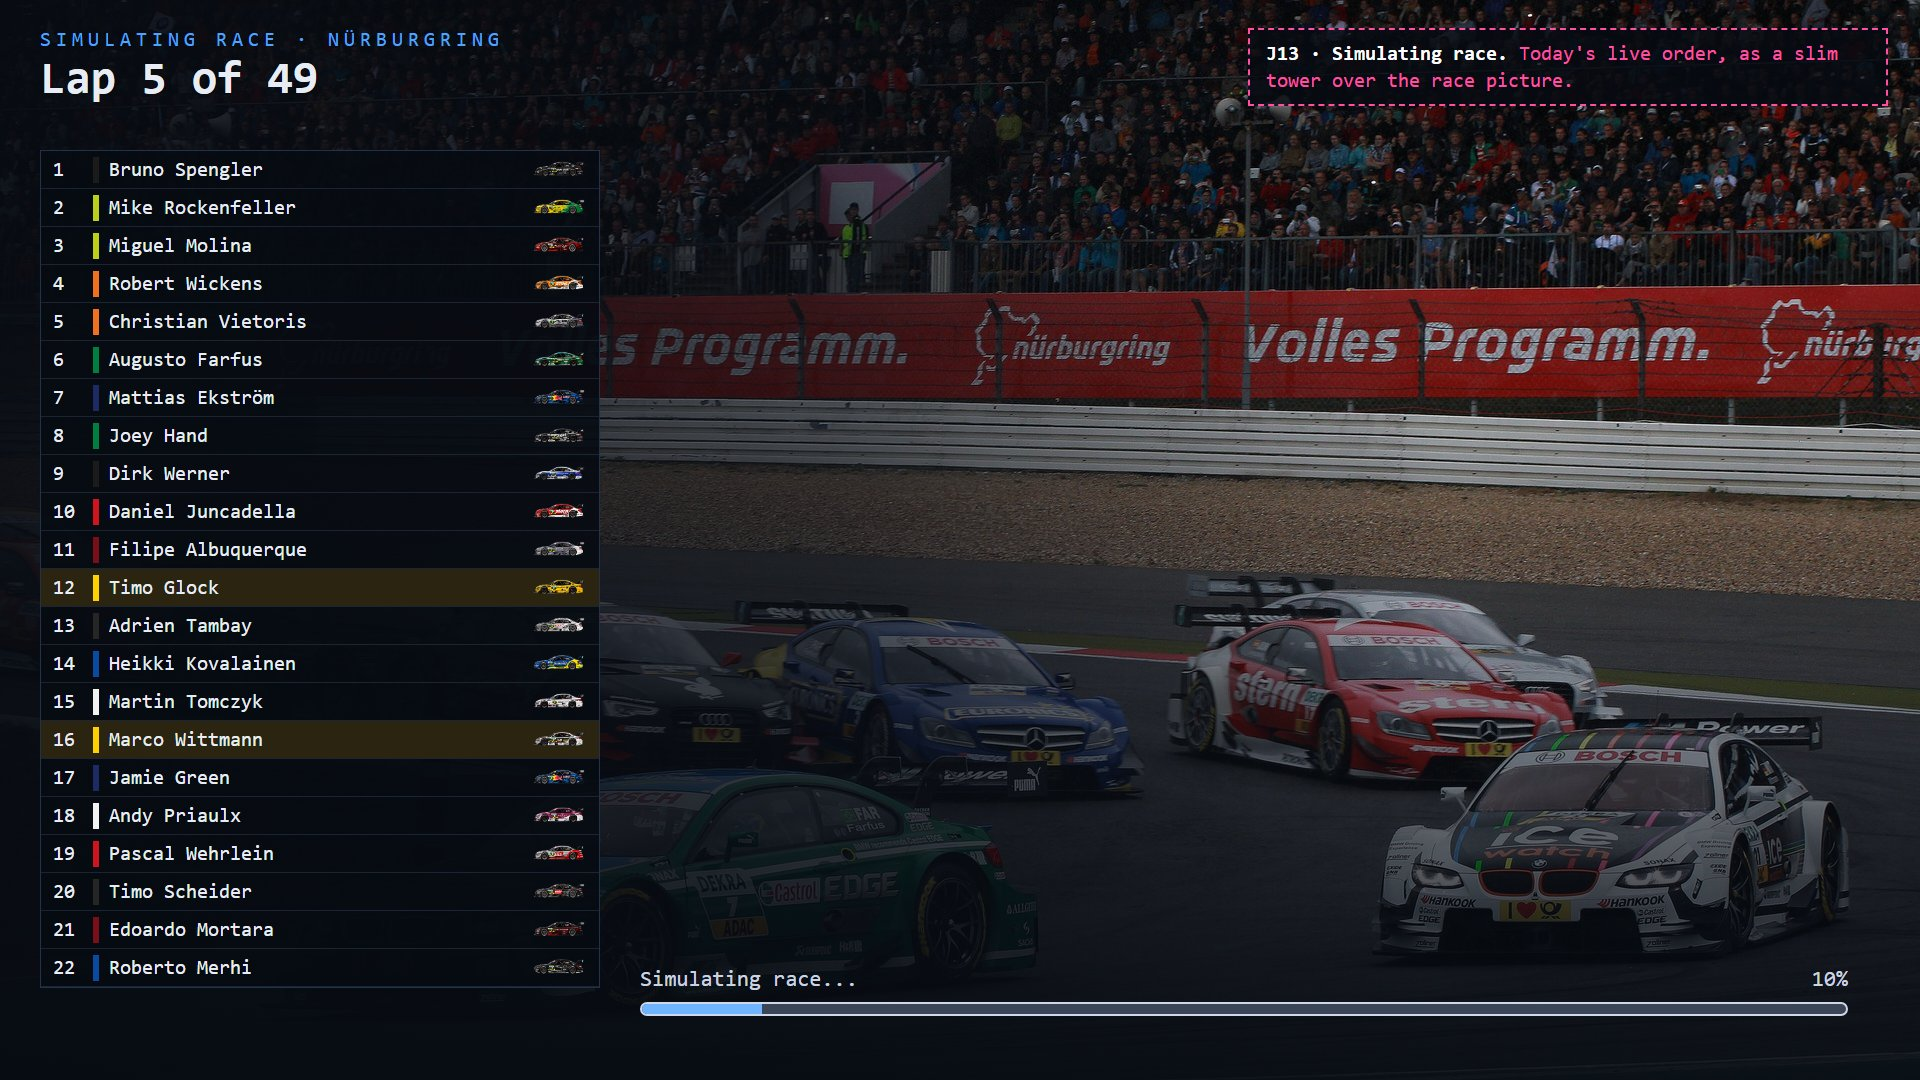
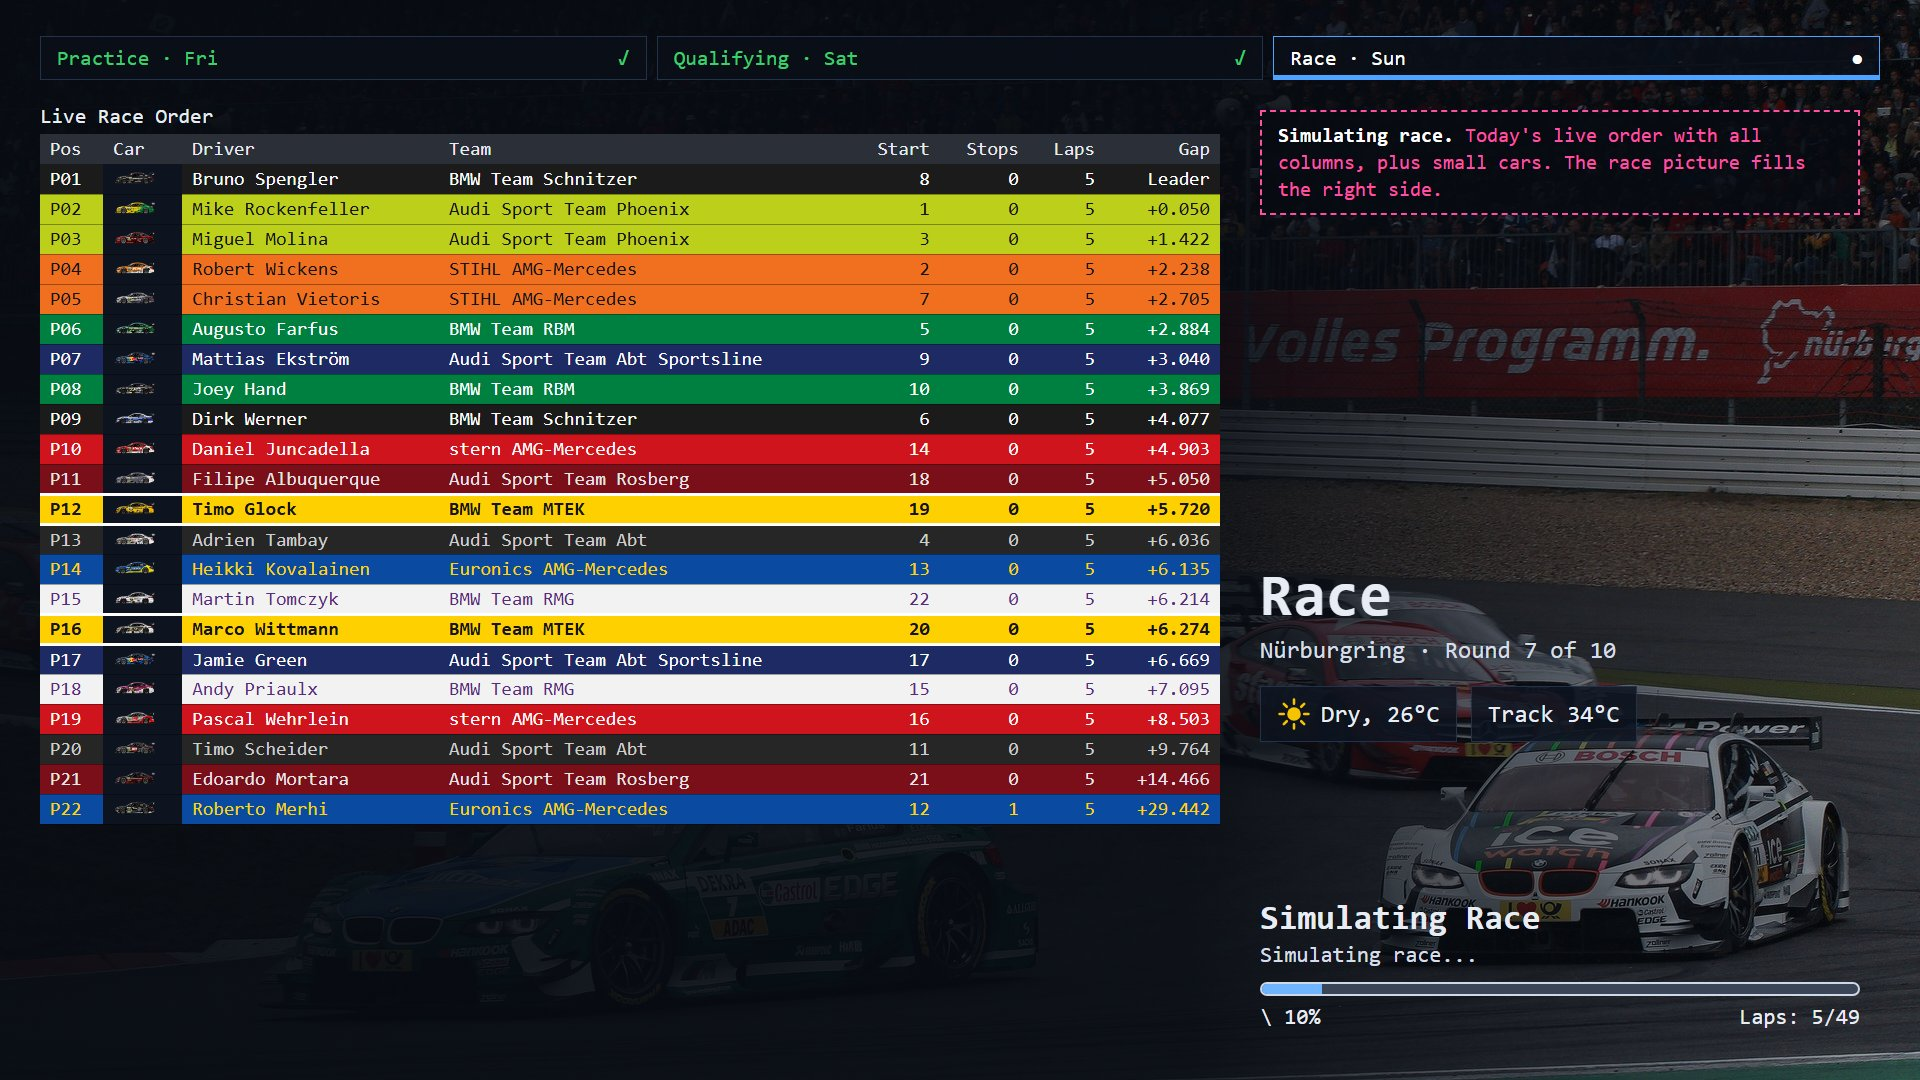
Weekend images v2: one session screen, two-race 1991 weekend, big grids
- Weekend journey redone: one start box, one session screen for choice and
  simulation, results with and without picture, race results as mock-up D,
  full live order, starting grid with a single table
- img/weekend-1991: Norisring 1991 with qualification race and two races
- Grid examples 21 to 23: window on your cars, Le Mans with 62 cars

diff --git a/docs/requests/weekend-images.md b/docs/requests/weekend-images.md
@@ -15,7 +15,7 @@ The team dashboard already shows a photo behind the panels, and it makes a big d
 
 So my idea: **a pack can add images to the weekend, and the game picks the one that fits.**
 
-- **Loading cards:** practice, qualifying and race load over a picture of the track, with the session, round, weather and track outline. The game already knows all of these.
+- **Session screens:** practice, qualifying and race show a picture of the track, with the session, track, weather and track outline. The same screen is used to choose and while simulating. The game already knows all of these.
 - **Between sessions:** a short card from the result, for example "Rockenfeller takes pole", with portrait and car.
 - **Results for your team:** the picture follows how your team did: win, podium, points, no points or retired.
 - **Optional archive:** an older picture of the track with the year and a caption.
@@ -68,16 +68,33 @@ simple HTML over the photos and can be rebuilt.
 ## The full weekend
 
 `img/weekend-journey/` walks through one race weekend as BMW Team MTEK at the
-Nürburgring, every session simulated: dashboard in the off week, next week,
-dashboard in race week, practice, simulating practice, practice results,
-qualifying, simulating qualifying, qualifying results, the card between
-sessions, the starting grid, race, simulating race, race results and the
-dashboard after the race. Two more screens show the fallback: the pack's
-one picture for the session, and no picture at all (today's screen).
+Nürburgring, every session simulated. Version 2, after review:
 
-The starting grid (`11-starting-grid.jpg`) has the facts on top, the grid
-as it stands on the track in the middle (cars face left, so the start line
-is on the left and pole is in the lower lane), and the full table below.
+- **One box to start:** the week loading screen, shown when Next week starts
+  a race week. The dashboard itself does not change.
+- **One session screen:** picture, session name, track, weather and outline.
+  Only the bottom band changes: Simulate / Take Part, then today's
+  progress bar and text. No separate loading card.
+- **A strip for the weekend:** Practice, Qualifying, Race, ticked off as
+  they are done. It follows the sessions the pack defines.
+- **Results:** practice and qualifying with a slim picture band and
+  without one (both shown). Race results follow mock-up D from the liveries
+  request (podium first).
+- **Simulating race:** today's live order with all its columns, plus cars.
+- **Starting grid:** facts on top, the grid on the track, one full table
+  below (never two columns). The car drawings set the direction: the 2013
+  cars face left, so the grid runs right to left.
+- **Fallback:** the pack's one picture for the session, then today's screen.
+
+`img/weekend-1991/` shows a weekend the pack defines differently: the
+Norisring in DTM 1991 with practice, qualifying, a qualification race for
+places 17 to 26, Race 1 and Race 2 (grid from the Race 1 result). The 1991
+cars face right, so their grid runs left to right. Results are samples.
+
+Big fields: `img/weekend-grid/22` and `23` show Le Mans with 62 cars. The
+visual grid shows 16 cars at a time, with a class strip for the whole field
+and a window on it; the second opens on your own car. The cars are
+placeholders in class colours.
 
 ## More screens: grid and pre-race
 
